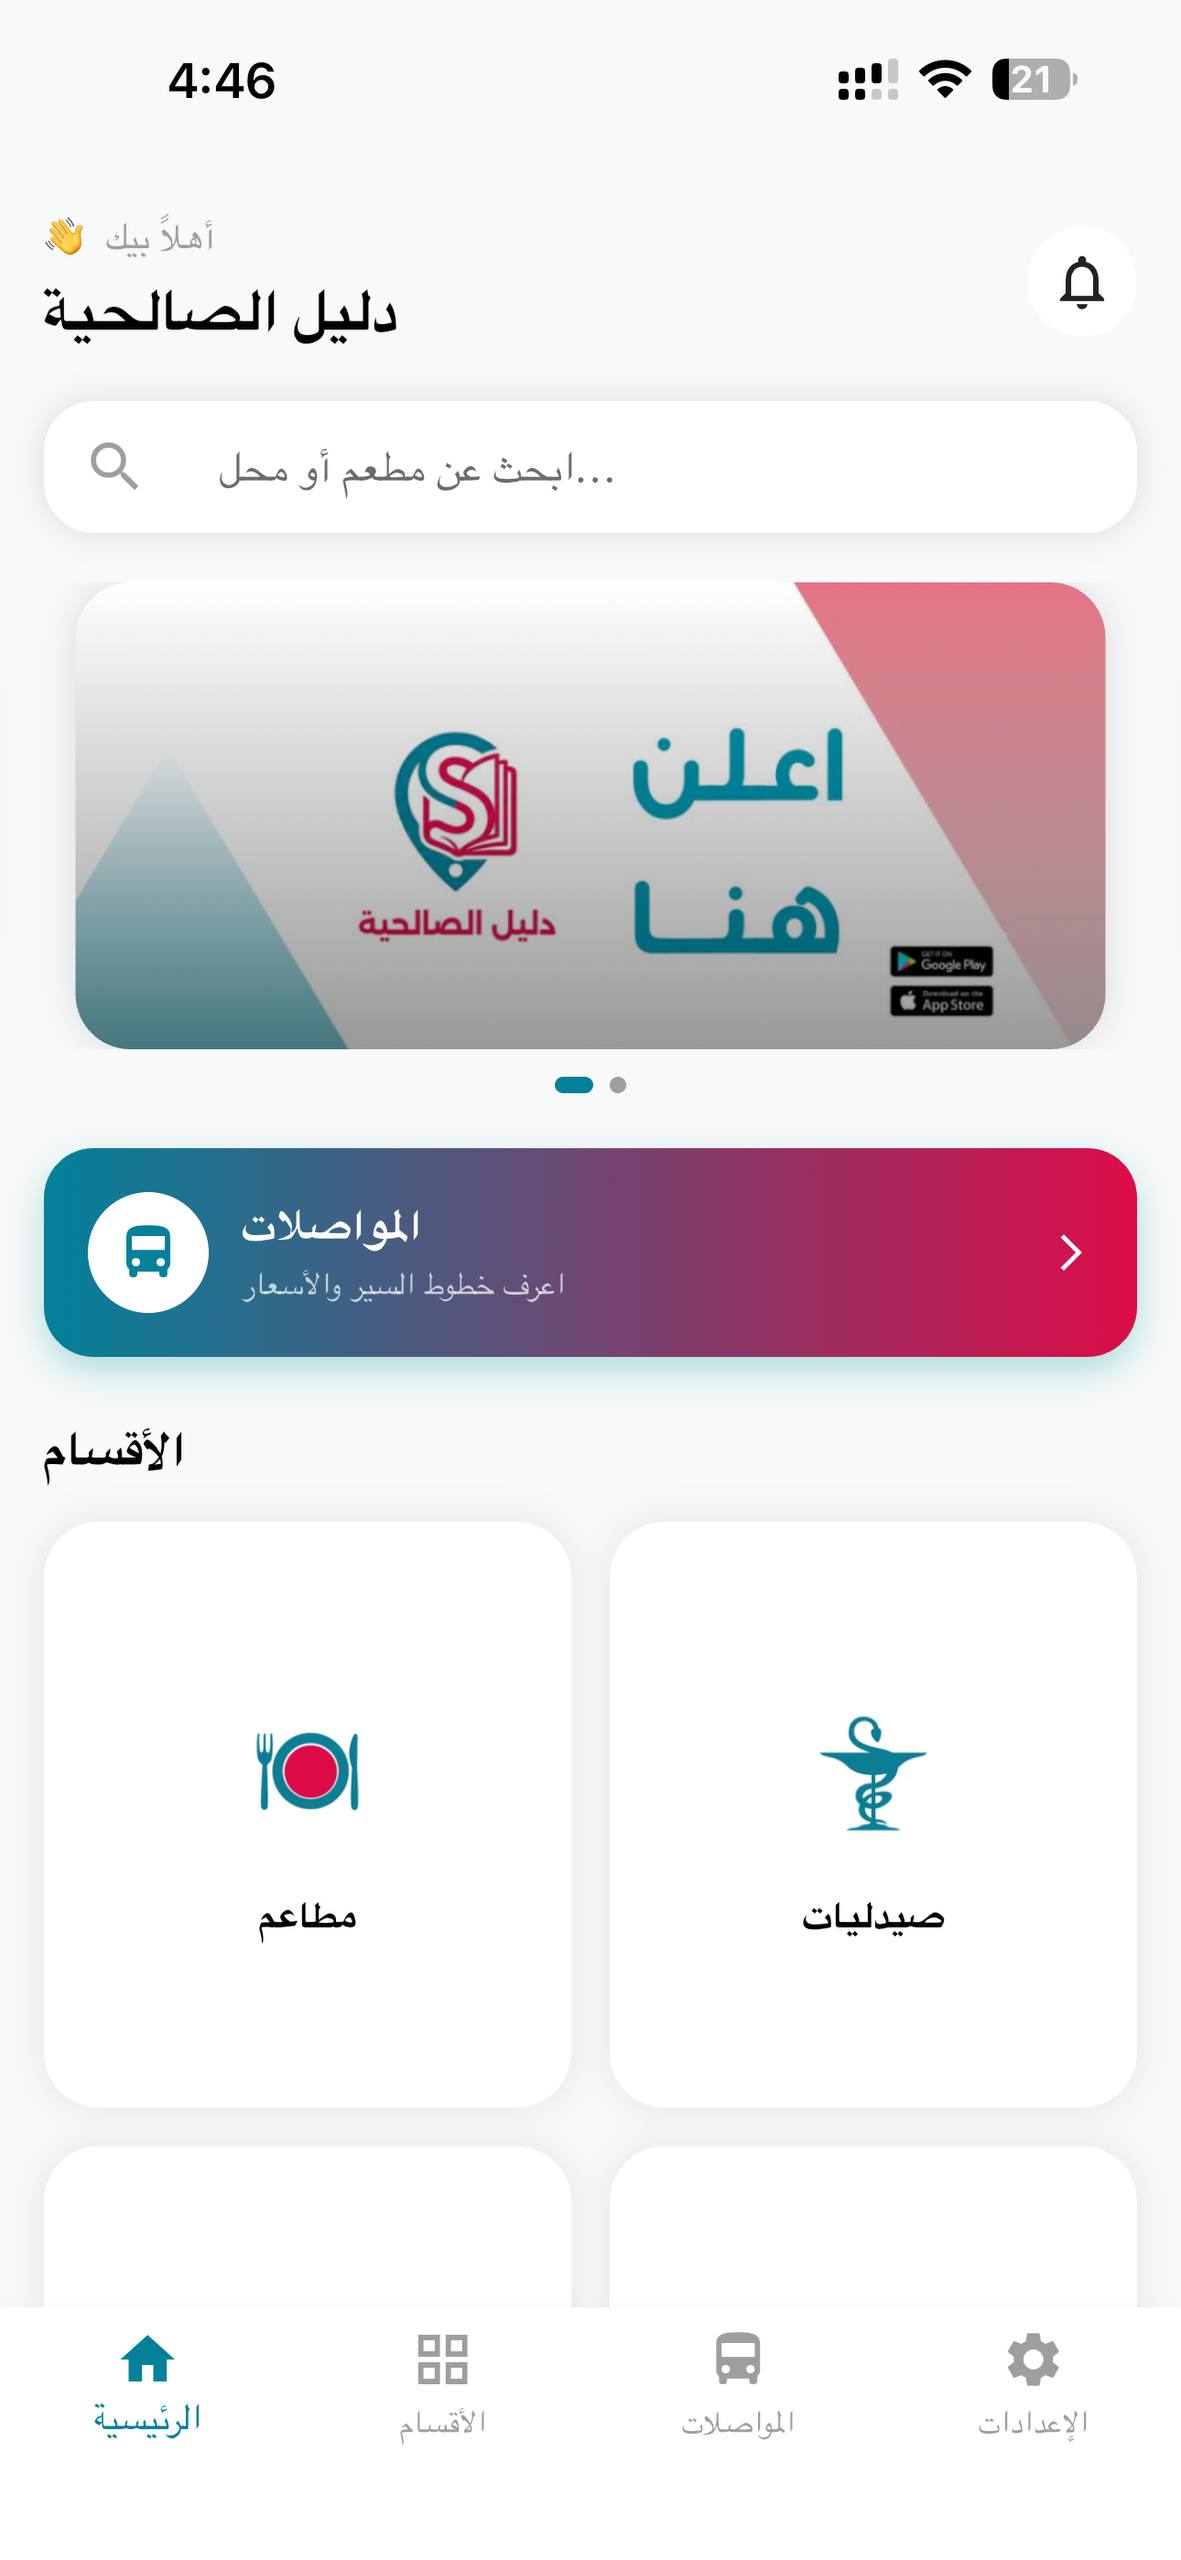
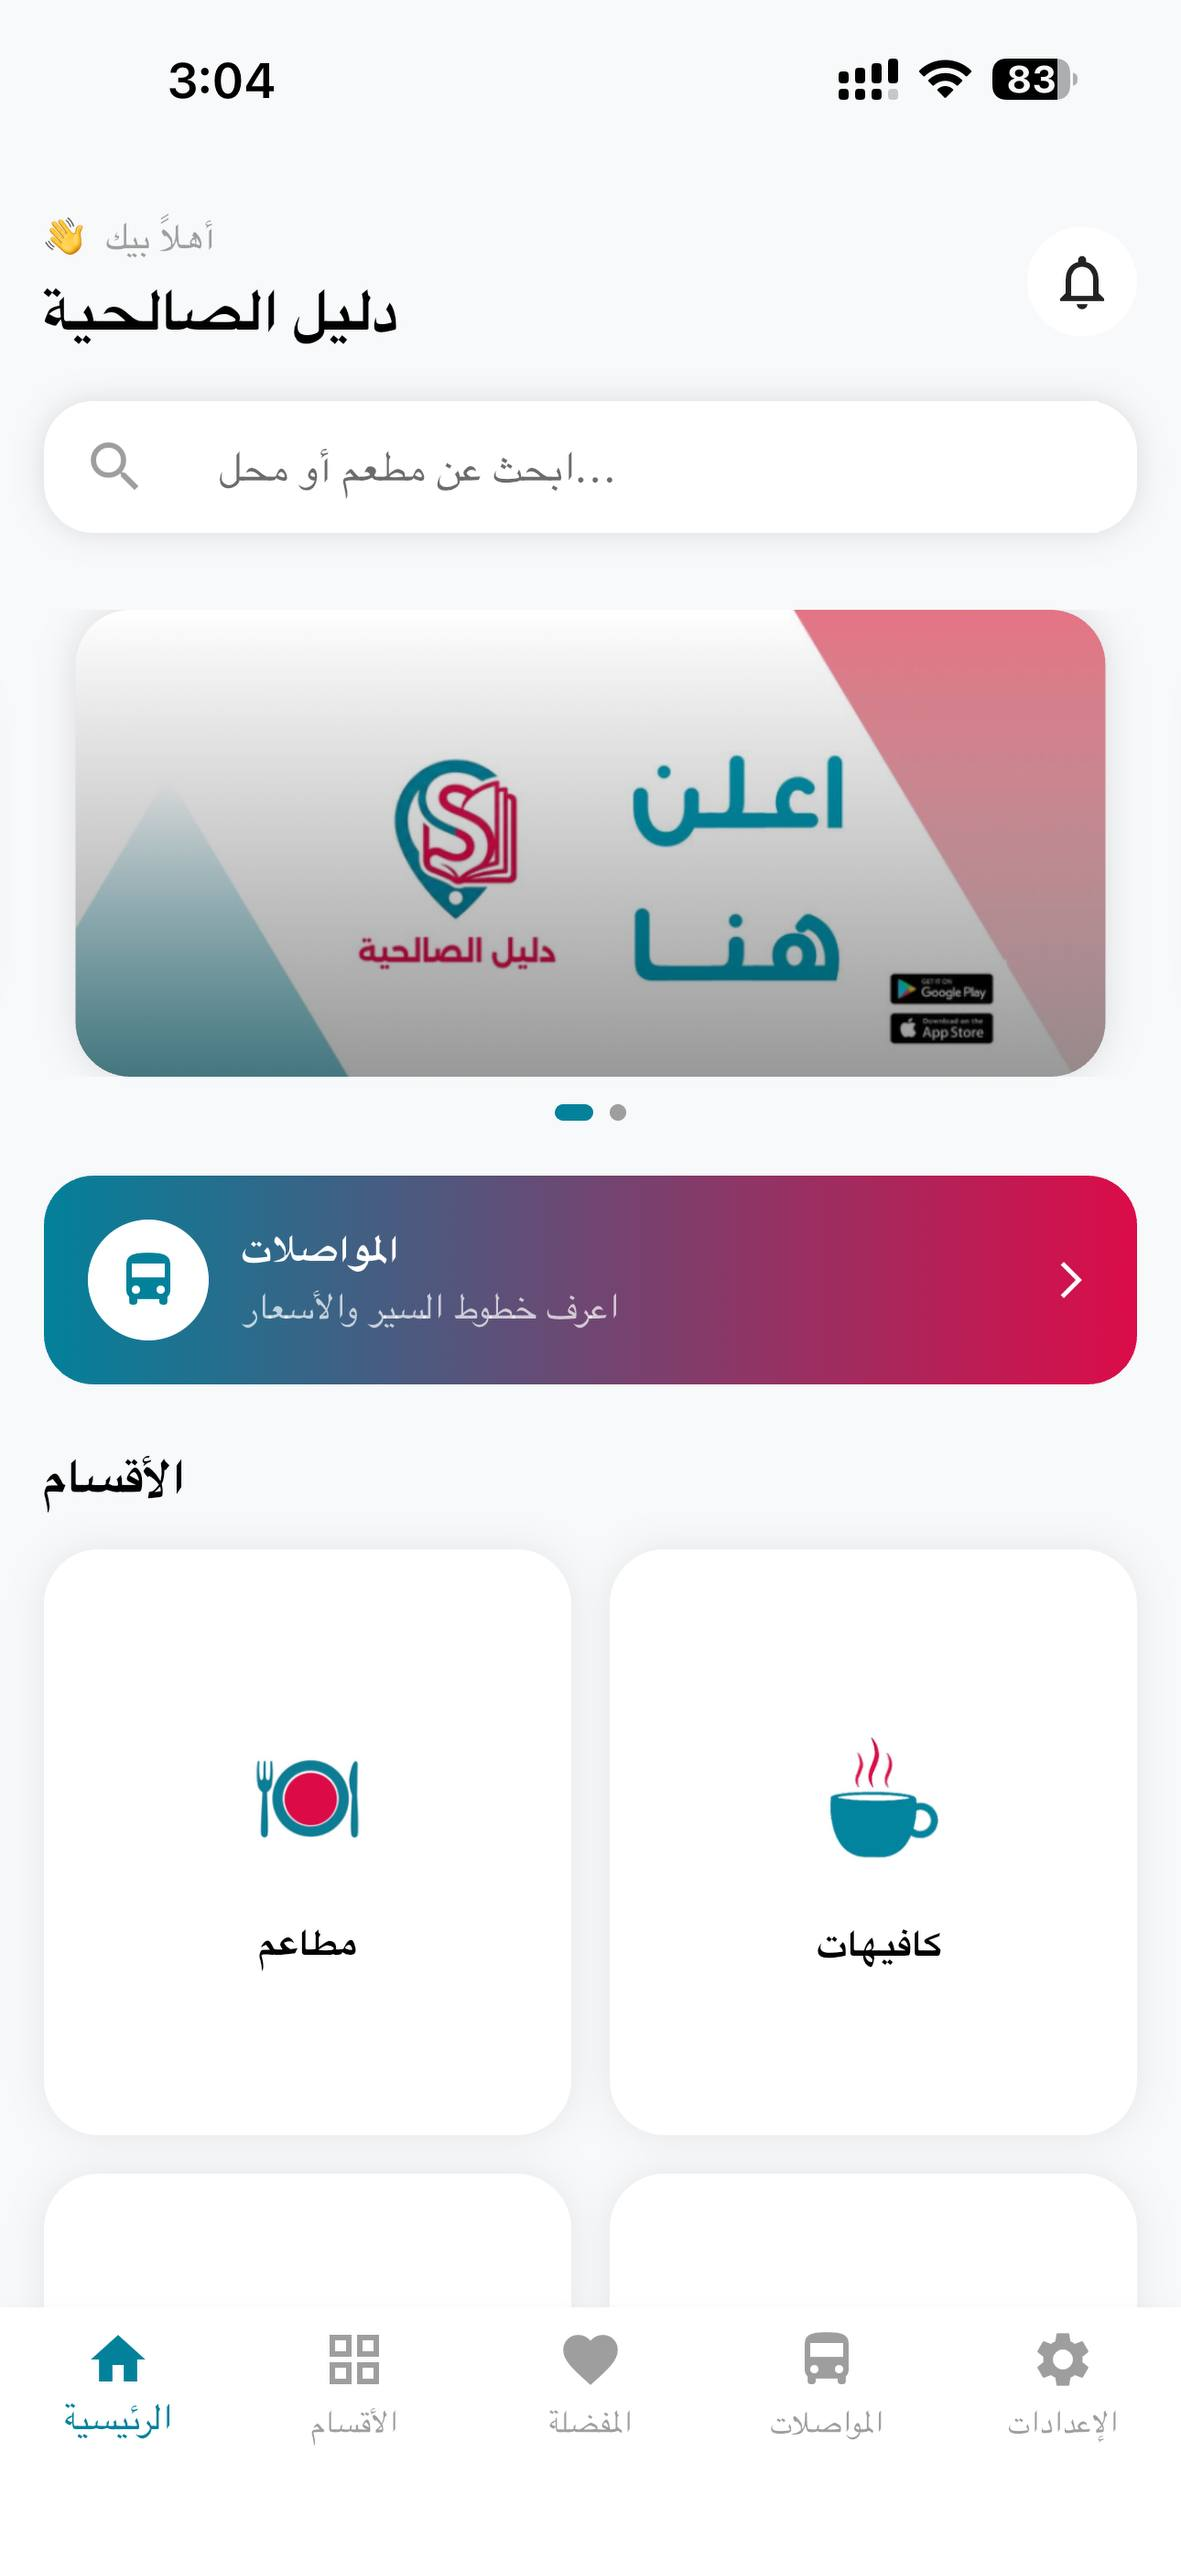
edit1

diff --git a/index.html b/index.html
@@ -35,10 +35,10 @@
                 <h1>كل المدينة.. <br><span class="gradient-text">بين يديك الآن</span></h1>
                 <p>نجمع لك كافة الخدمات، المطاعم، والأنشطة التجارية في مدينة الصالحية داخل تطبيق واحد لتصل لما تريد بذكاء وسرعة.</p>
                 <div class="hero-btns-grid">
-                    <a href="https://play.google.com/store/apps/details?id=com.easyta3lim.academy_app" class="store-btn-small"><i class="fab fa-google-play"></i> Google Play</a>
-                    <a href="https://apps.apple.com/eg/app/easyta3lim-%D8%A5%D9%8A%D8%B2%D9%8A-%D8%AA%D8%B9%D9%84%D9%8A%D9%85/id6612039469" class="store-btn-small"><i class="fab fa-apple"></i> App Store</a>
-                    <a href="https://appgallery.huawei.com/app/C111865929" class="store-btn-small"><i class="fa-brands fa-instagram"></i> Instagram</a>
-                    <a href="https://drive.google.com/file/d/17bMjKkIRm8TDHH_wey3a5NRGW3KIJsmd/view?usp=sharing" class="store-btn-small"><i class="fab fa-facebook-f"></i>Facebook</a>
+                    <a href="https://play.google.com/store/apps/details?id=com.dalel.salehiya" class="store-btn-small"><i class="fab fa-google-play"></i> Google Play</a>
+                    <a href="https://apps.apple.com/" class="store-btn-small"><i class="fab fa-apple"></i> App Store</a>
+                    <a href="https://www.instagram.com/" class="store-btn-small"><i class="fa-brands fa-instagram"></i> Instagram</a>
+                    <a href="https://www.facebook.com/dalel.salehiya" class="store-btn-small"><i class="fab fa-facebook-f"></i>Facebook</a>
                 </div>
             </div>
             <div class="hero-image" data-aos="zoom-in-up">
